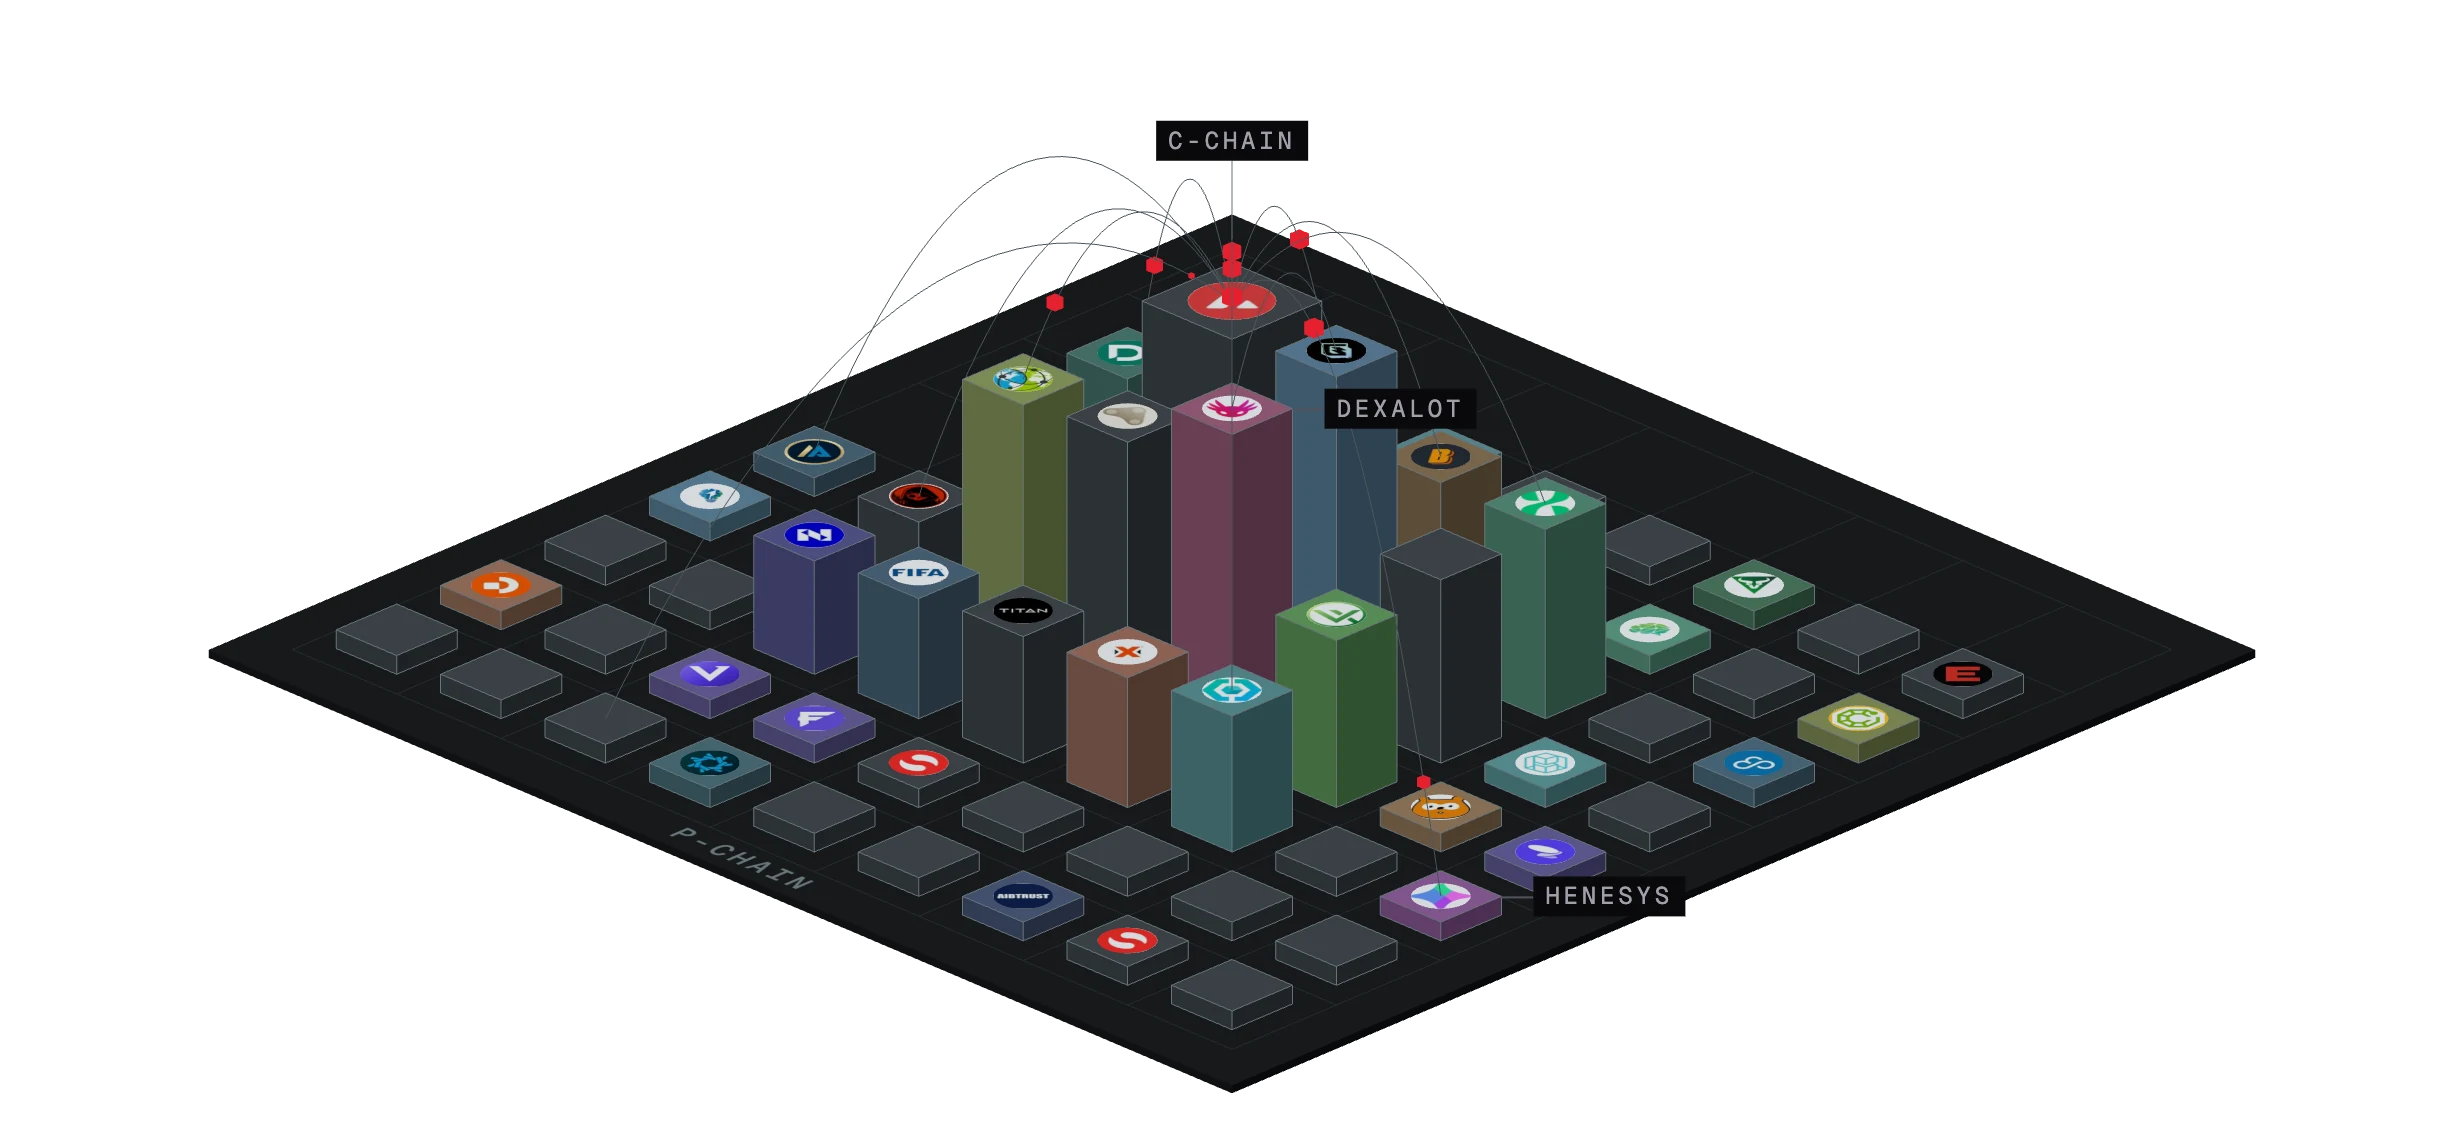
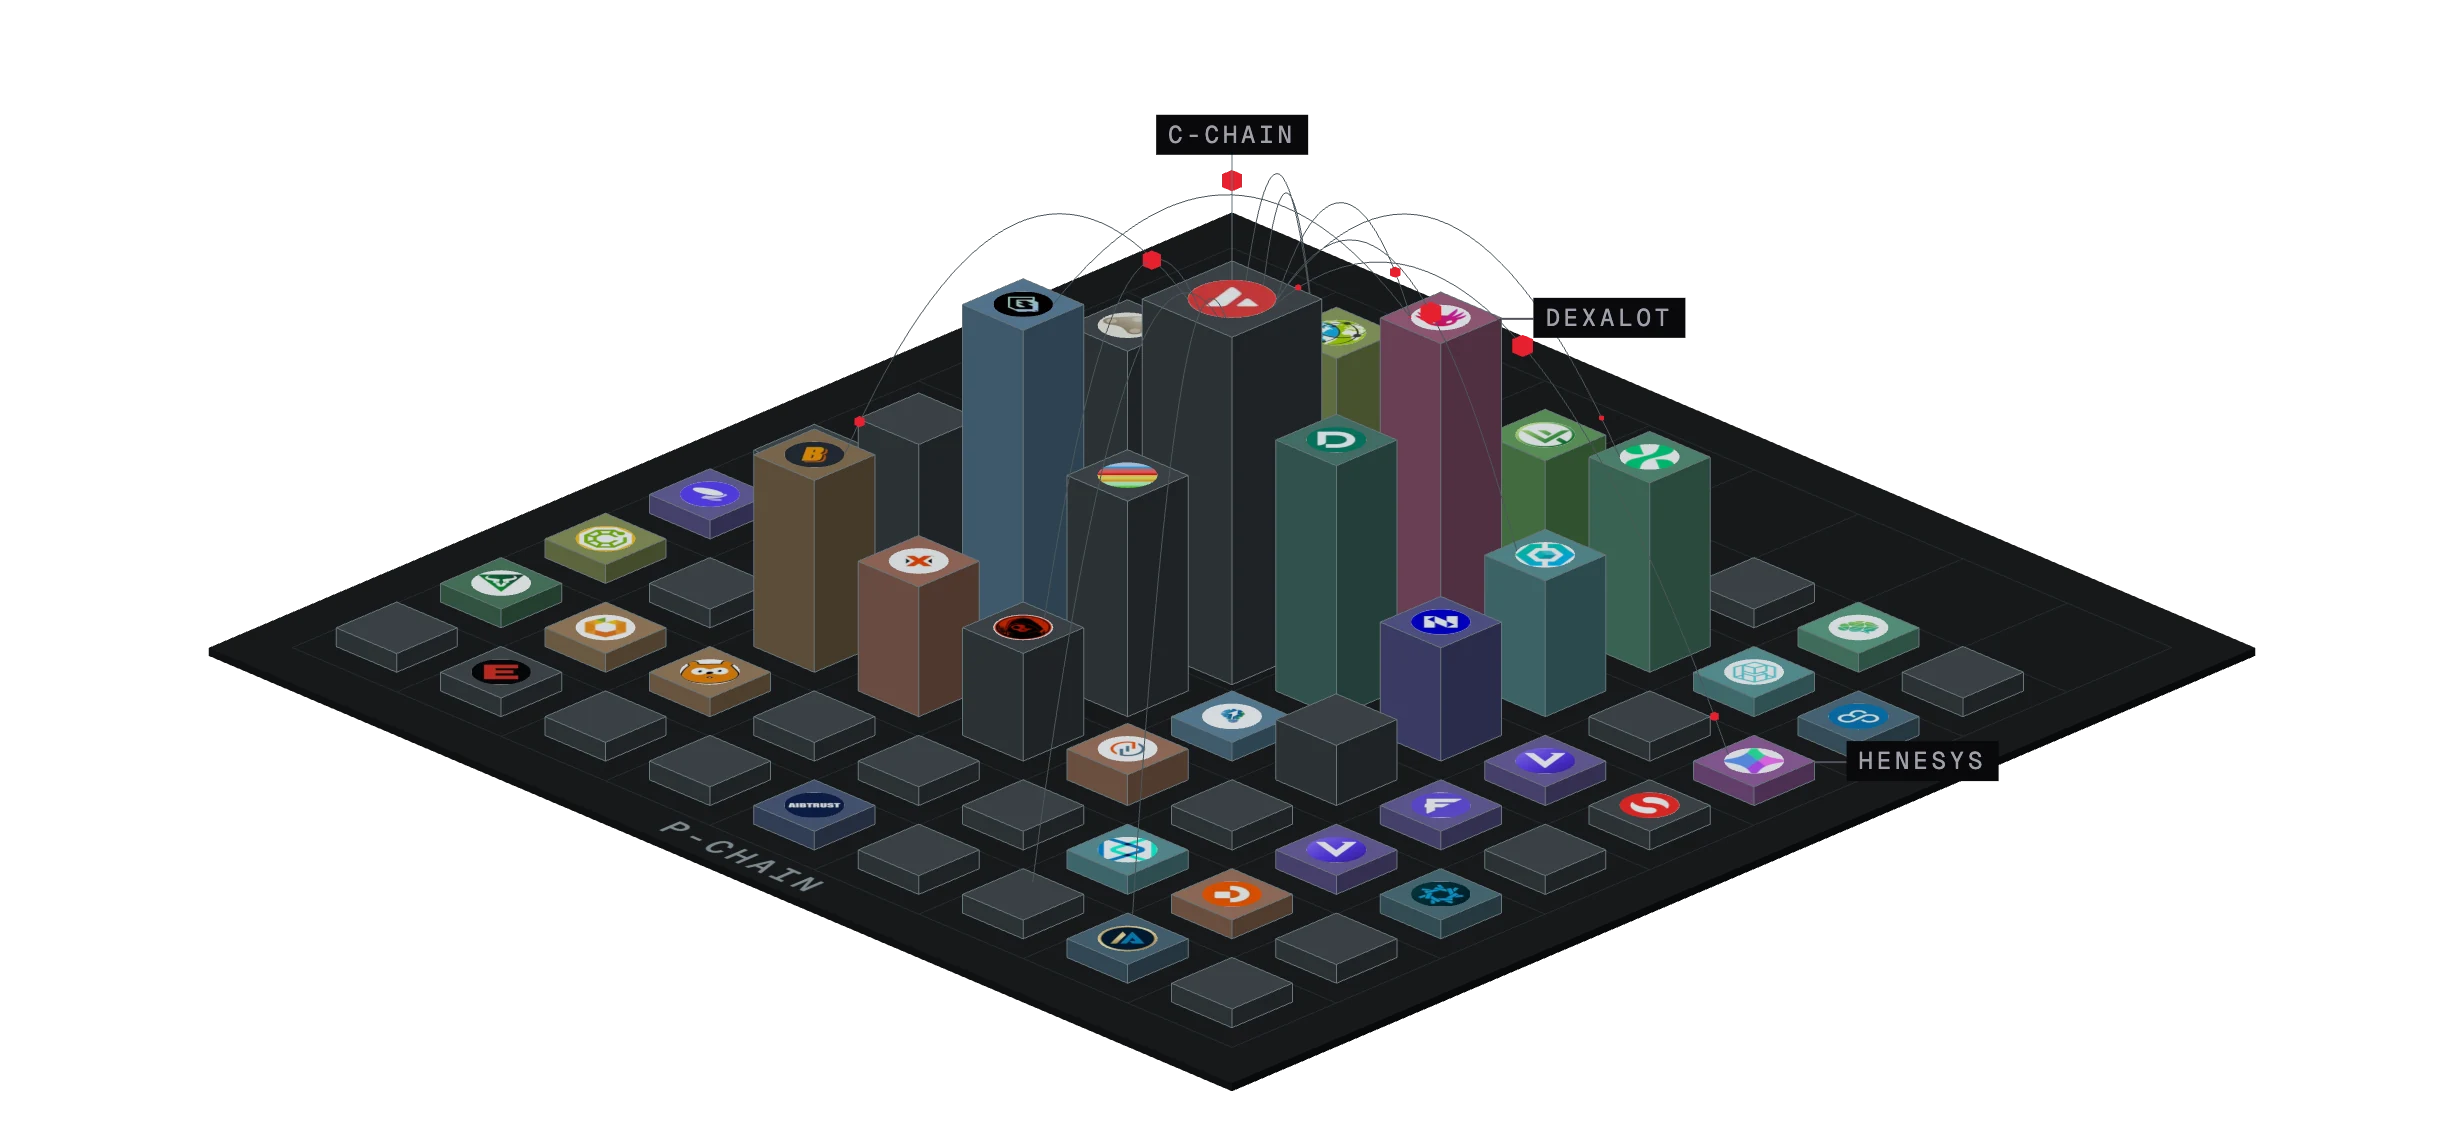
feat(home): keep the c-chain in view and hold messages on their arcs
The front diagonal takes quiet low chains, so nothing hides the C-Chain and no arc runs down
its leader. Messages slow to a stop and hold mid-arc instead of vanishing. The live ICM count
leads the figures; the duplicate 0 is gone. Plate ink is darker. Phone still at 3x.

Changed region(s): [[0.1562, 0.0915, 0.8125, 0.8841]]

diff --git a/components/landing-v2/story/three/NetworkScene.tsx b/components/landing-v2/story/three/NetworkScene.tsx
@@ -36,10 +36,11 @@ import type { SceneProps } from "./SceneFrame";
 
    The scene keeps its own clock, which runs only while the box is on
    screen: the blocks rise once, from the center out, the first time the
-   reader sees them, and the messages resume where they stopped. Messages
-   stop leaving about 10 s in, and leave again for 10 s each time the
-   pointer moves over the drawing, so nothing moves without end. The
-   scene draws a frame only while something moves.
+   reader sees them, and the messages resume where they stopped. About
+   10 s in, the messages slow to a stop and hold on their arcs, as the
+   stills show; each pointer move over the drawing sets them flying for
+   another 10 s, so nothing moves without end. The scene draws a frame
+   only while something moves.
 
    Each block takes its company's color from its logo, and the logo lies
    on its roof. Blocks stand in steel at once; the colors and marks arrive
@@ -94,7 +95,7 @@ const MARK_SEG = 32;
 /** a mark or the name sits this far over the face it lies on, so the two never fight */
 const DECAL_LIFT = 0.002;
 /** the plate's name: its capital height on screen, px, and at most this share of the rim */
-const NAME_CAP_PX = 7;
+const NAME_CAP_PX = 8;
 const NAME_FILL = 0.58;
 /** the scene reports ready without the logos or the name after this long */
 const READY_WAIT_MS = 3000;
@@ -116,6 +117,8 @@ interface Placed {
 interface SceneClock {
   t: number;
   until: number;
+  /** the messages' own clock, which slows to a stop when the send window closes */
+  m: number;
 }
 
 /** cells of a square spiral, center first */
@@ -140,13 +143,32 @@ function spiral(n: number): [number, number][] {
   return out;
 }
 
-function layout(chains: NetworkChain[]): Placed[] {
+function layout(chains: NetworkChain[], routed: Set<string>): Placed[] {
   // busiest first; the id breaks ties, so the same data always draws the same plate
   const ranked = [...chains].sort((a, b) => (b.txCount ?? -1) - (a.txCount ?? -1) || a.id.localeCompare(b.id));
   const max = Math.max(1, ...ranked.map((c) => c.txCount ?? 0));
-  const cells = spiral(ranked.length);
+  // in each ring, the busiest chains stand level with the center, then behind it, then in front
+  // (the camera sits at +x +z, so gx + gz > 0 is toward the reader)
+  const cells = spiral(ranked.length).sort(
+    ([ax, az], [bx, bz]) =>
+      Math.max(Math.abs(ax), Math.abs(az)) - Math.max(Math.abs(bx), Math.abs(bz)) ||
+      Math.abs(ax + az) - Math.abs(bx + bz) ||
+      ax + az - (bx + bz),
+  );
+  // the front diagonal, (1,1), (2,2) and on, lies between the reader and the hub: it takes the
+  // lowest chains with no ICM route, so no block hides the C-Chain and no arc runs down the line
+  // of sight onto its leader
+  const front = cells.filter(([gx, gz]) => gx === gz && gx > 0);
+  const quiet = ranked.filter((c, i) => i > 0 && !routed.has(c.id)).reverse();
+  const slot = new Map<string, [number, number]>();
+  front.forEach((cell, k) => {
+    if (quiet[k]) slot.set(quiet[k].id, cell);
+  });
+  const taken = new Set(slot.values());
+  const rest = cells.filter((cell) => !taken.has(cell));
+  let next = 0;
   return ranked.map((c, i) => {
-    const [gx, gz] = cells[i];
+    const [gx, gz] = slot.get(c.id) ?? rest[next++];
     // no indexed count stands at the base, with the 0 counts
     const share = c.txCount ? Math.log10(c.txCount + 1) / Math.log10(max + 1) : 0;
     return {
@@ -232,14 +254,19 @@ function useDisposed(geometry: BufferGeometry) {
 /**
  * Advances the scene clock before anything reads it, only while the box is
  * on screen, and asks for the next frame while something moves: the rise,
- * the routes fading in, messages leaving and landing.
+ * the routes fading in, messages in flight. The messages' clock eases to a
+ * stop over the send window's last 0.8 s, so they hold on their arcs, as
+ * the stills show, and the scene draws nothing more.
  */
 function Tick({ clock, running }: { clock: RefObject<SceneClock>; running: boolean }) {
   useFrame((state, dt) => {
     if (!running) return;
     const c = clock.current;
-    c.t += Math.min(dt, 0.1);
-    if (c.t < c.until + TRIP_S) state.invalidate();
+    const step = Math.min(dt, 0.1);
+    c.t += step;
+    const pace = MathUtils.clamp((c.until - c.t) / 0.8, 0, 1);
+    c.m += step * pace;
+    if (pace > 0) state.invalidate();
   }, -1);
   return null;
 }
@@ -248,12 +275,22 @@ function Tick({ clock, running }: { clock: RefObject<SceneClock>; running: boole
 function Kick({ running }: { running: boolean }) {
   const gl = useThree((s) => s.gl);
   const invalidate = useThree((s) => s.invalidate);
+  const pointer = useThree((s) => s.pointer);
   useEffect(() => {
     const el = gl.domElement;
     const kick = () => invalidate();
+    // a pointer that leaves the drawing lets the rig turn back to rest
+    const leave = () => {
+      pointer.set(0, 0);
+      invalidate();
+    };
     el.addEventListener("pointermove", kick);
-    return () => el.removeEventListener("pointermove", kick);
-  }, [gl, invalidate]);
+    el.addEventListener("pointerleave", leave);
+    return () => {
+      el.removeEventListener("pointermove", kick);
+      el.removeEventListener("pointerleave", leave);
+    };
+  }, [gl, invalidate, pointer]);
   useEffect(() => invalidate(), [running, invalidate]);
   return null;
 }
@@ -485,10 +522,15 @@ function PlateName({
   );
 }
 
-/** the arc a message flies from the sender's roof to the receiver's */
+/** the arc a message flies from the rim of the sender's logo disc to the rim of the receiver's, so it never covers a logo */
 function arcOf(a: Placed, b: Placed): QuadraticBezierCurve3 {
-  const p0 = new Vector3(a.x, a.h, a.z);
-  const p1 = new Vector3(b.x, b.h, b.z);
+  const dx = b.x - a.x;
+  const dz = b.z - a.z;
+  const len = Math.hypot(dx, dz) || 1;
+  const ra = (a.foot * MARK) / 2;
+  const rb = (b.foot * MARK) / 2;
+  const p0 = new Vector3(a.x + (dx / len) * ra, a.h, a.z + (dz / len) * ra);
+  const p1 = new Vector3(b.x - (dx / len) * rb, b.h, b.z - (dz / len) * rb);
   const mid = p0.clone().add(p1).multiplyScalar(0.5);
   mid.y = Math.max(a.h, b.h) + ARC + p0.distanceTo(p1) * 0.12;
   return new QuadraticBezierCurve3(p0, mid, p1);
@@ -590,11 +632,12 @@ function Messages({
   useFrame(() => {
     const m = mesh.current;
     if (!m) return;
-    const now = clock.current.t;
+    // the messages' own clock: it holds still once the send window closes, so the trips hold on their arcs
+    const now = clock.current.m;
     const step = now - (last.current ?? now);
     last.current = now;
-    // the first messages leave as the blocks finish standing
-    if (now >= rise - 0.2 && now < clock.current.until) {
+    // the first messages leave as the blocks finish standing; a held clock sends nothing (step is 0)
+    if (clock.current.t >= rise - 0.2) {
       lanes.forEach((lane, i) => {
         owed.current[i] = (owed.current[i] ?? 0) + lane.perSecond * step;
         while (owed.current[i] >= 1) {
@@ -652,9 +695,16 @@ function Plate({ extent, theme }: { extent: number; theme: SceneProps["theme"] }
   );
 }
 
-/** the hub label's leader: a vertical hairline from its roof up to the lifted label */
+/**
+ * The hub label's leader: a vertical hairline from the back rim of its logo
+ * disc up to the lifted label. Both ends sit on that rim, so the line stays
+ * vertical and rises from the top of the logo on screen, never through it.
+ */
 function Leader({ p, top, theme }: { p: Placed; top: number; theme: SceneProps["theme"] }) {
-  const geometry = useMemo(() => segmentOf([p.x, p.h, p.z], [p.x, top, p.z]), [p, top]);
+  const geometry = useMemo(() => {
+    const o = (p.foot * MARK) / 2 / Math.SQRT2;
+    return segmentOf([p.x - o, p.h, p.z - o], [p.x - o, top, p.z - o]);
+  }, [p, top]);
   useDisposed(geometry);
   return (
     <lineSegments geometry={geometry}>
@@ -726,8 +776,11 @@ export default function NetworkScene({
   onReady,
   play = true,
 }: NetworkSceneProps & SceneProps) {
-  const on = running && play;
-  const placed = useMemo(() => layout(chains), [chains]);
+  // a canvas that mounts with the box already on screen (a reload, a fast scroll) plays the rise behind the
+  // still, so the still hands over to standing blocks, never to a flat plate
+  const [early] = useState(running);
+  const on = running && (play || early);
+  const placed = useMemo(() => layout(chains, new Set(routes.flatMap((r) => [r.from, r.to]))), [chains, routes]);
   const extent = useMemo(() => Math.max(1, ...placed.map((p) => Math.max(Math.abs(p.x), Math.abs(p.z)))), [placed]);
   const rise = useMemo(() => Math.max(0, ...placed.map((p) => p.ring)) * RING_S + GROW_S, [placed]);
   // the hub is where the most routes meet; its label stands over the fan of arcs
@@ -746,7 +799,7 @@ export default function NetworkScene({
     const hubPlaced = best ? byId.get(best[0]) : undefined;
     return { hub: hubPlaced ?? null, lift: hubPlaced ? Math.max(top, hubPlaced.h) + 0.3 : 0 };
   }, [placed, routes]);
-  const clock = useRef<SceneClock>({ t: 0, until: SEND_S });
+  const clock = useRef<SceneClock>({ t: 0, until: SEND_S, m: 0 });
   const [hoverId, setHoverId] = useState<string | null>(null);
   const [stood, setStood] = useState(false);
   const named = placed.filter((p) => labelled.includes(p.id) || p.id === hoverId);
@@ -789,7 +842,9 @@ export default function NetworkScene({
       orthographic
       flat
       camera={{ position: [10, 7.2, 10], zoom: 40, near: 0.1, far: 200 }}
-      dpr={[1, 2]}
+      // the page mounts the canvas only from 768 px up, at 2x at most; below that only the narrow still's
+      // render runs, at 3x, so its logos stay sharp on phones
+      dpr={[1, window.innerWidth < 768 ? 3 : 2]}
       frameloop="demand"
       gl={{ antialias: true, alpha: true, powerPreference: "low-power" }}
       onCreated={({ camera }) => camera.lookAt(0, 0.55, 0)}

diff --git a/components/landing-v2/story/InteropChapter.tsx b/components/landing-v2/story/InteropChapter.tsx
@@ -6,7 +6,7 @@ import { useInView } from "framer-motion";
 import { BrandButton } from "@/components/landing-v2/BrandButton";
 import { track } from "@/components/landing-v2/track";
 import { formatCompact } from "@/components/landing-v2/compactFigure";
-import { CAPTION, Chapter, Figure, Lead, REVEAL_VIEW, Reveal, TextLink, Title } from "./kit";
+import { CAPTION, Chapter, Figure, Lead, Reveal, TextLink, Title } from "./kit";
 import { SceneFrame } from "./three/SceneFrame";
 import type { NetworkChain, NetworkRoute } from "./three/NetworkScene";
 
@@ -55,20 +55,18 @@ export default function InteropChapter({ data }: { data: InteropData }) {
   }, [routes]);
   // the red marks' number: every message on these routes in the window
   const messages = useMemo(() => routes.reduce((sum, r) => sum + r.count, 0), [routes]);
-  // the rise starts as the box fades in, not before
+  // the rise starts when most of the box is on screen, so the reader sees it from the start
   const boxRef = useRef<HTMLDivElement>(null);
-  const shown = useInView(boxRef, REVEAL_VIEW);
+  const shown = useInView(boxRef, { once: true, amount: 0.6 });
 
   return (
     <Chapter id="interop">
       <Reveal>
-        <div className="grid gap-8 xl:grid-cols-12 xl:items-start">
-          <Title lead="Any L1 can connect." rest="No bridge operator" className="xl:col-span-7" />
-          <Lead className="xl:col-span-5">
-            With Interchain Messaging, the sending chain&apos;s validators sign each message. The receiving chain checks
-            the signatures against the sender&apos;s validator set on the <span className="whitespace-nowrap">P-Chain</span>.
-          </Lead>
-        </div>
+        <Title lead="Any L1 can connect." rest="No bridge operator" />
+        <Lead className="mt-8">
+          With Interchain Messaging (ICM), the sending chain&apos;s validators sign each message. The receiving chain checks
+          the signatures against the sender&apos;s validator set on the <span className="whitespace-nowrap">P-Chain</span>.
+        </Lead>
       </Reveal>
 
       <Reveal delay={0.1} className="-mx-5 mt-12 md:mx-0 md:mt-16">
@@ -78,24 +76,23 @@ export default function InteropChapter({ data }: { data: InteropData }) {
             sceneProps={{ chains, routes, labelled, play: shown }}
             still={STILL}
             stillNarrow={STILL_NARROW}
-            alt="The chains the explorer lists, drawn as blocks on the P-Chain with their logos, each as tall as its transactions over 30 days. Chains with no indexed count stand at the base height. Red marks are interchain messages on the routes they took."
+            alt="The chains the explorer lists, drawn as blocks on the P-Chain with their logos, each as tall as its transactions over 30 days, on a log scale. Chains with no indexed count stand at the base height. Red marks are interchain messages on the routes they took."
             aspect={2.15}
             aspectNarrow={1.625}
           />
         </div>
-        <p className={`mt-6 max-w-3xl px-5 md:px-0 ${CAPTION}`}>
-          Height: transactions over 30 days. Chains with no indexed count stand at the base height. Red: interchain messages
-          over the same 30 days.
+        <p className={`mt-6 max-w-xl px-5 md:px-0 ${CAPTION}`}>
+          Height: transactions in 30 days, on a log scale. Base height: no indexed count. Red: ICM messages in the same 30
+          days.
         </p>
       </Reveal>
 
-      <Reveal delay={0.15} className="mt-20 md:mt-28">
-        <div className="grid gap-12 border-t border-zinc-200 pt-12 md:grid-cols-3 md:gap-8 dark:border-zinc-800">
-          <Figure value="67%" caption="of the sender's stake must sign each message, by default." />
-          <Figure value="0" caption="bridge operators, multisigs or oracles in the path." />
+      <Reveal delay={0.15} className="mt-12 md:mt-16">
+        <div className="grid gap-12 border-t border-zinc-200 pt-10 md:grid-cols-3 md:gap-8 md:pt-12 dark:border-zinc-800">
           {messages > 0 && (
             <Figure value={formatCompact(messages)} caption="ICM messages between these chains in the last 30 days." />
           )}
+          <Figure value="67%" caption="of the sender's stake must sign each message, by default." />
         </div>
         <div className="mt-14 flex flex-col gap-6 sm:flex-row sm:items-center sm:gap-8">
           <BrandButton

diff --git a/components/landing-v2/story/three/palette.ts b/components/landing-v2/story/three/palette.ts
@@ -41,7 +41,7 @@ export const PALETTE: Record<SceneTheme, ScenePalette> = {
     red: "#e6212f",
     redEdge: "#9e1019",
     ink: "#3b484b",
-    plateInk: "#8b9598",
+    plateInk: "#66727a",
     mark: "#ffffff",
   },
   dark: {
@@ -53,7 +53,7 @@ export const PALETTE: Record<SceneTheme, ScenePalette> = {
     red: "#e6212f",
     redEdge: "#ff6b75",
     ink: "#a2afb2",
-    plateInk: "#68767b",
+    plateInk: "#7d8a8f",
     mark: "#d5dadc",
   },
 };
